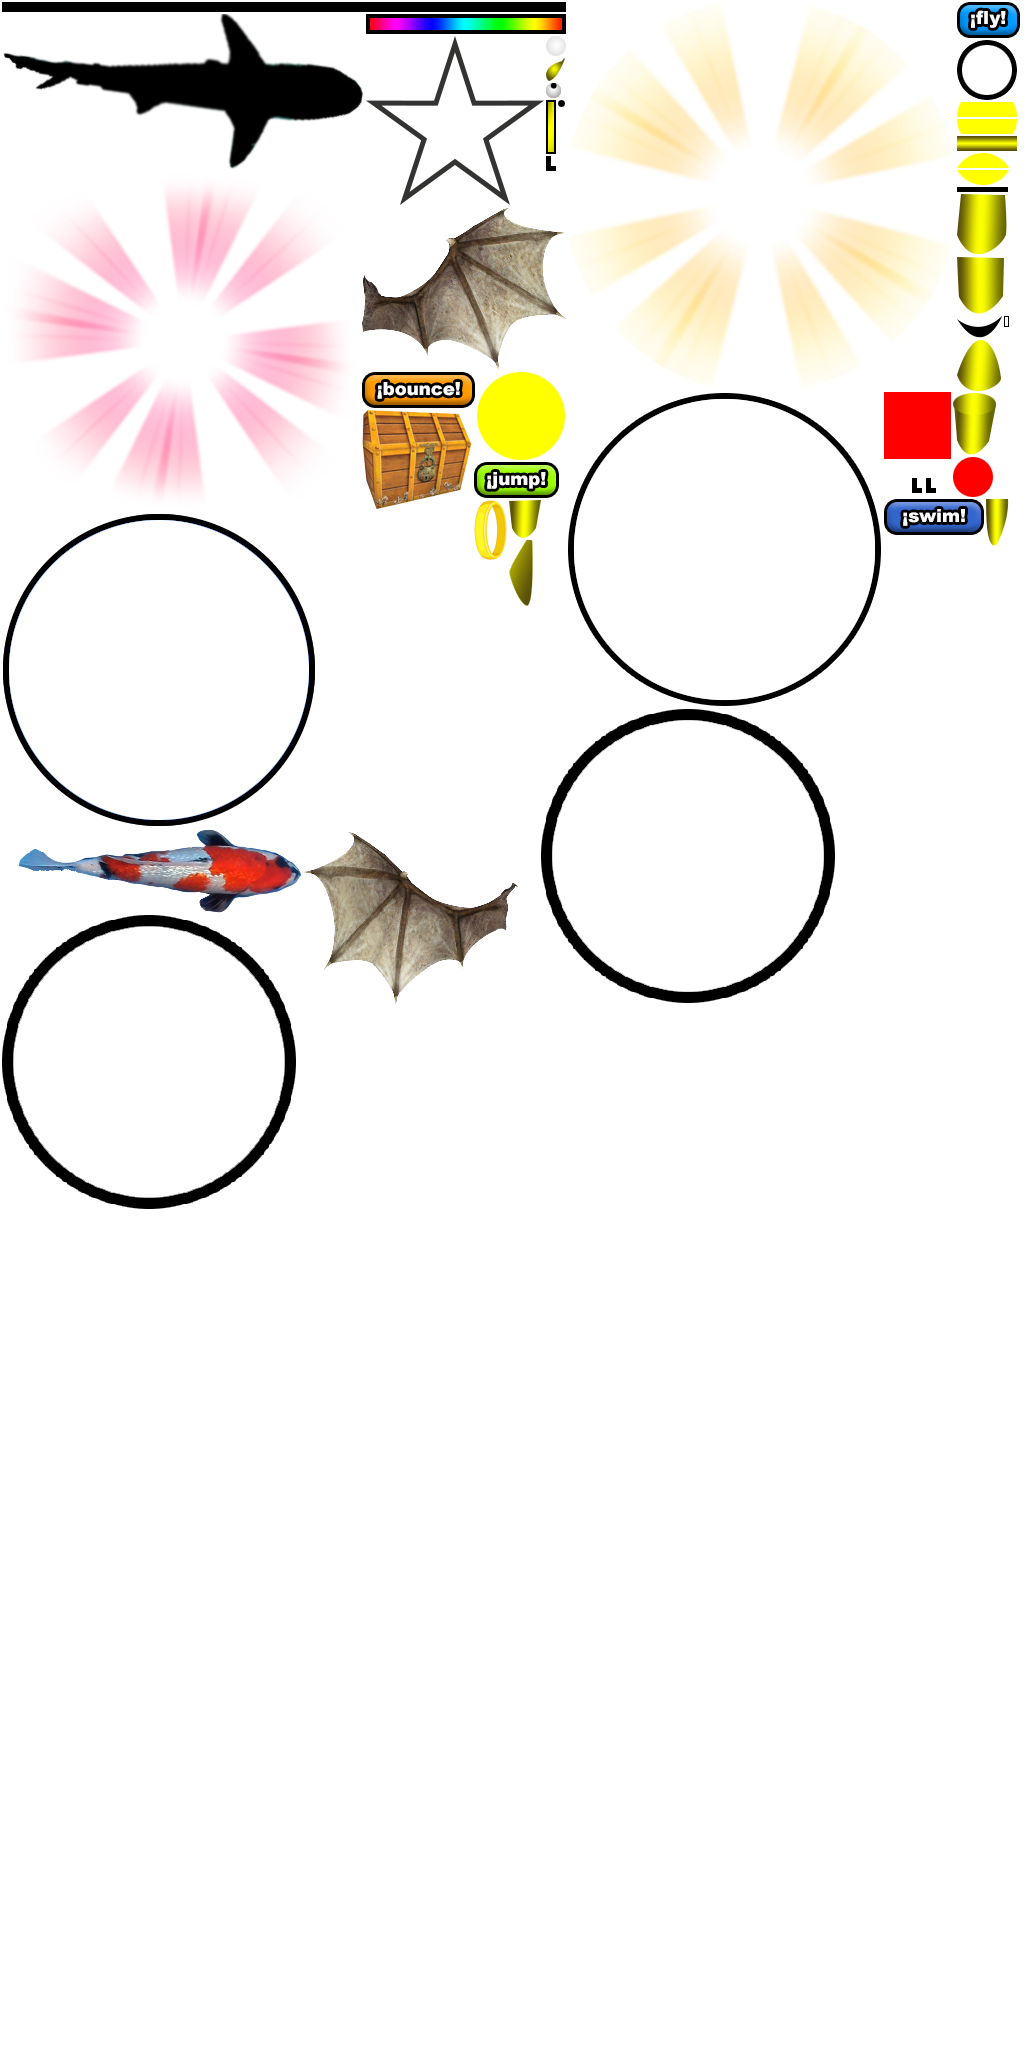
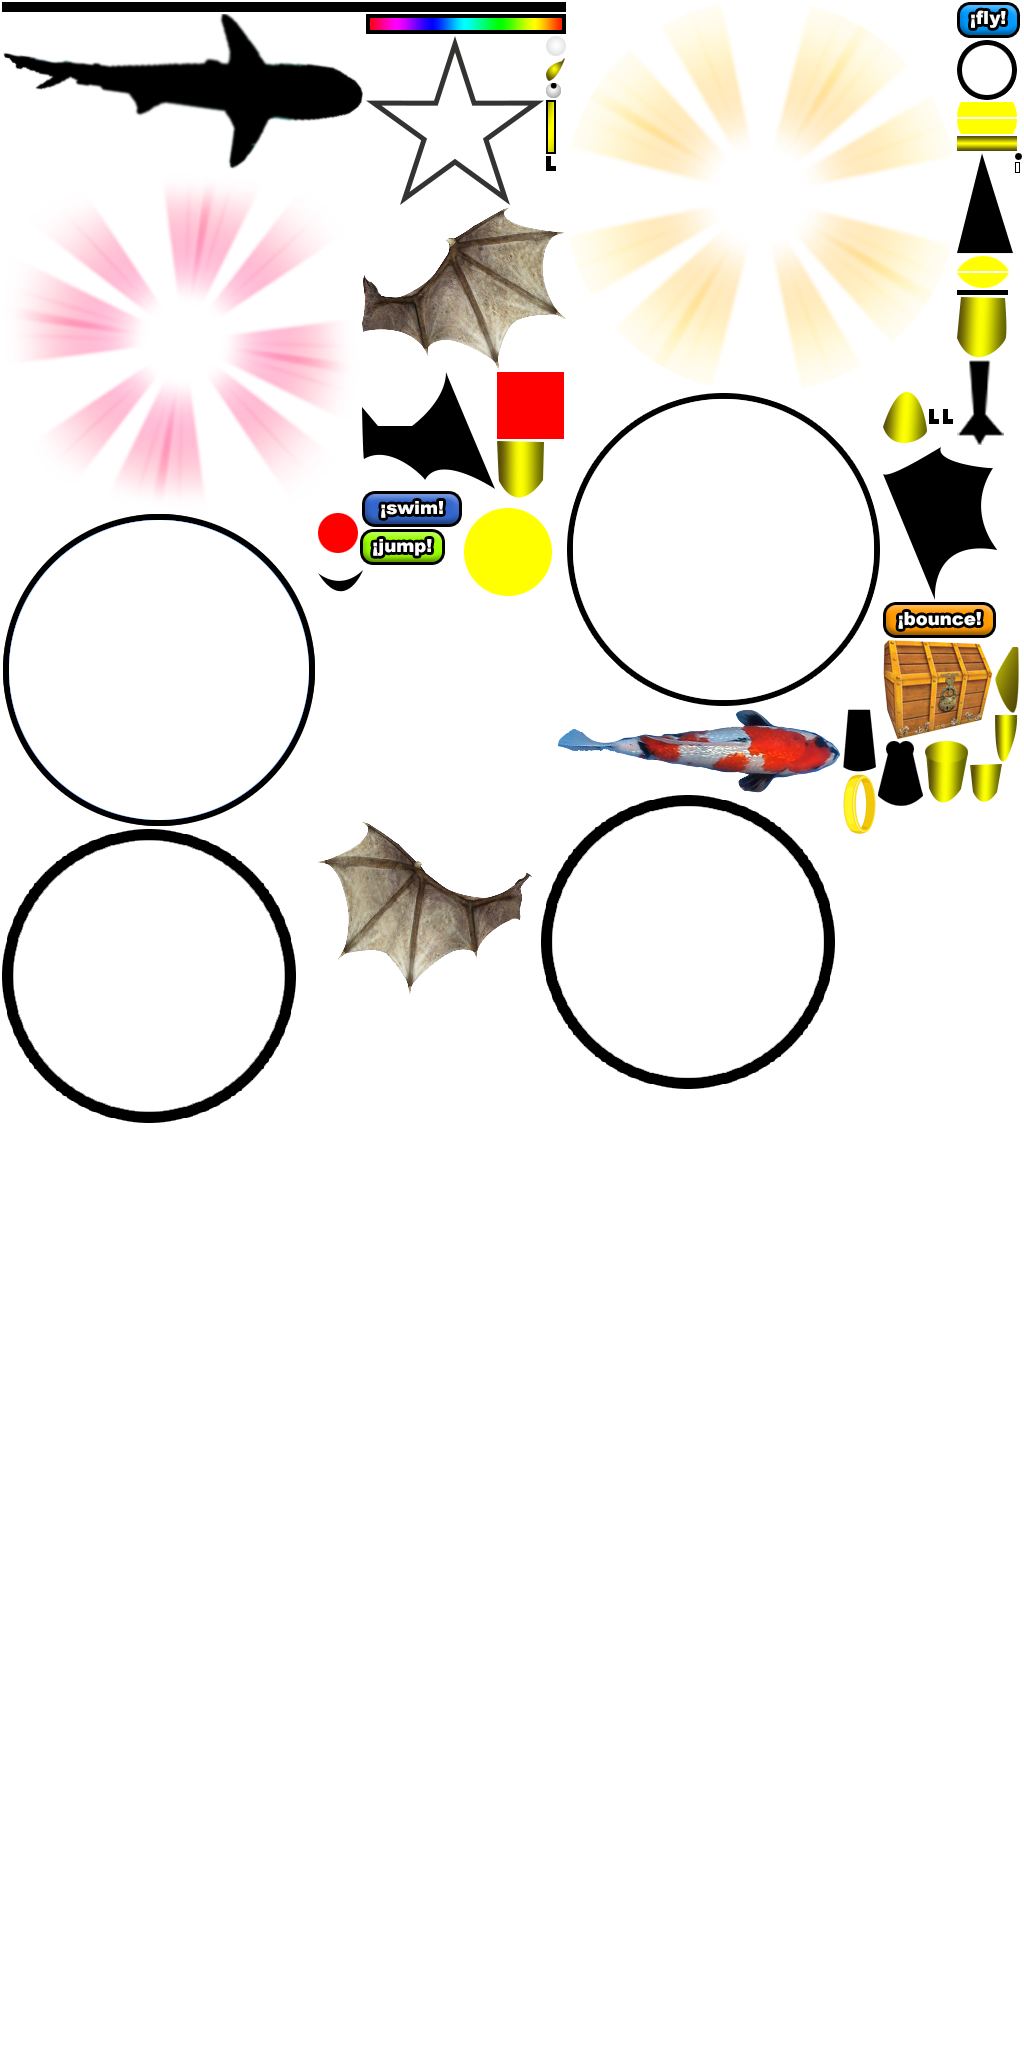
dragon

Changed region(s): [[0.0, 0.0625, 1.0, 0.5938], [0.3125, 0.1562, 0.5938, 0.3125]]

diff --git a/src/animations/supportingClasses/fly/heroFly.js b/src/animations/supportingClasses/fly/heroFly.js
@@ -5,32 +5,92 @@ export default function () {
 		cont: new PIXI.Container(),
 		dragon: [],
 		utils: Utils,
-		segmentsQ: 20,
+		segmentsQ: 10,
 		init: function (parentCont, wh, spritesheet) {
 			this.parentCont = parentCont;
-			if(!this.dragon.length){
-				 for (let i = 0; i < this.segmentsQ; i++) {
-	                let segment = this.bodySegment(25, 0xFFFF00, i * 25);
-	                this.dragon.push(segment);
-	                this.cont.addChild(segment);
-	            }
-			} else {
-				 for (let i = 0; i < this.segmentsQ; i++) {
-	                this.cont.addChild(this.dragon[i]);
-	            }
-			}
+			let head = new PIXI.Sprite(spritesheet.textures['dragonHead.png']);
+			head.anchor.x = 0.5;
+	        head.anchor.y = 0.5;
+			this.cont.addChild(head);
+			this.dragon.push(head);
 
-			if(!this.leftWing){
-				 this.leftWing = new PIXI.Sprite(spritesheet.textures['leftWing.png']);
-				 this.rightWing = new PIXI.Sprite(spritesheet.textures['rightWing.png']);
-				 this.leftWing.pivot.x = 206;
-				 this.leftWing.pivot.y = 54;
-				 this.rightWing.pivot.y = 70;
-				 this.wingCont = new PIXI.Container();
-				 this.wingCont.y = 20;
-				 this.wingCont.addChild(this.leftWing);
-				 this.wingCont.addChild(this.rightWing);
-			}
+			 for (let i = 0; i < this.segmentsQ; i++) {
+			 	let cont = new PIXI.Container();
+			 	cont.vx = 0;
+	            cont.vy = 0;
+	            cont.xpos = 0;
+	            cont.ypos = 0;
+                let segment =  new PIXI.Sprite(spritesheet.textures['dragonSegment.png']);
+                segment.anchor.x = 0.5;
+                segment.anchor.y =  0;
+                segment.y = i * (segment.height - 20);
+                cont.addChild(segment);
+                this.dragon.push(cont);
+                this.cont.addChild(cont);
+            }
+		
+            this.rightWing = new PIXI.Container();
+            this.rightWing1 = new PIXI.Sprite(spritesheet.textures['wingPart1.png']);
+			this.rightWing1.anchor.x = 0;
+			this.rightWing1.anchor.y = 0.33;
+
+			this.rightWing2 = new PIXI.Sprite(spritesheet.textures['wingPart2.png']);
+			this.rightWing2.x = 84;
+			this.rightWing2.y = -40;
+			this.rightWing2.anchor.x = 0;
+			this.rightWing2.pivot.y = 20;
+
+			this.rightWing3 = new PIXI.Sprite(spritesheet.textures['dragonTriangle.png']);
+			this.rightWing3.anchor.x = 0.5;
+			this.rightWing3.anchor.y = 0;
+			this.rightWing3.x = 84;
+			this.rightWing3.rotation = this.utils.deg2rad(-30);
+			this.rightWing3.y = -40;
+
+			this.rightWing.addChild(this.rightWing1);
+			this.rightWing.addChild(this.rightWing2);
+			this.rightWing.addChild(this.rightWing3);
+			
+			this.leftWing = new PIXI.Container();
+			this.leftWing1 = new PIXI.Sprite(spritesheet.textures['wingPart1.png']);
+			this.leftWing1.scale.x = -1;
+			this.leftWing1.anchor.x = 0;
+			this.leftWing1.anchor.y = 0.33;
+
+			this.leftWing2 = new PIXI.Sprite(spritesheet.textures['wingPart2.png']);
+			this.leftWing2.scale.x = -1;
+			this.leftWing2.x = -84;
+			this.leftWing2.y = -40;
+			this.leftWing2.anchor.x = 0;
+			this.leftWing2.pivot.y = 20;
+
+			this.leftWing3 = new PIXI.Sprite(spritesheet.textures['dragonTriangle.png']);
+			this.leftWing3.anchor.x = 0.5;
+			this.leftWing3.anchor.y = 0;
+			this.leftWing3.x = -84;
+			this.leftWing3.rotation = this.utils.deg2rad(30);
+			this.leftWing3.y = -40;
+
+			this.leftWing.addChild(this.leftWing1);
+			this.leftWing.addChild(this.leftWing2);
+			this.leftWing.addChild(this.leftWing3);
+
+			 this.wingCont = new PIXI.Container();
+			 this.wingCont.y = 30;
+			 this.wingCont.addChild(this.leftWing);
+			 this.wingCont.addChild(this.rightWing);
+			
+			this.eyeCont = new PIXI.Container();
+			let rightEye = this.rightEye = new PIXI.Sprite(spritesheet.textures['swimEye.png']);
+            rightEye.anchor.set(0.5);
+            this.rightEye.x = 10;
+            this.eyeCont.addChild(rightEye)
+            let leftEye = this.leftEye = new PIXI.Sprite(spritesheet.textures['swimEye.png']);
+            this.leftEye.x = -10;
+            leftEye.anchor.set(0.5);
+            this.eyeCont.addChild(leftEye);
+            this.cont.addChild(this.eyeCont)
+
 			this.cont.radius = 0;
 			this.cont.addChildAt(this.wingCont, 0);
 			this.segments = this.dragon;

diff --git a/src/animations/intro_animation.js b/src/animations/intro_animation.js
@@ -297,31 +297,31 @@ export default function(obj) {
 
 			if (str === 'right') {
 				this.idle = false;
-				this.swimAction.radius += 0.25;
+				this.activeAction.radius += 0.25;
 				this.velocity = this.utils.randomNumberBetween(
 					this.config.swimVelocities[0], 
 					this.config.swimVelocities[1]);
-				this.vx = this.velocity * Math.sin(this.swimAction.radius);
-				this.vy = -this.velocity * Math.cos(this.swimAction.radius);
-				this.swimAction.storeRadius = this.swimAction.radius;
+				this.vx = this.velocity * Math.sin(this.activeAction.radius);
+				this.vy = -this.velocity * Math.cos(this.activeAction.radius);
+				this.activeAction.storeRadius = this.activeAction.radius;
 				let obj = {vx: -this.vx, vy: -this.vy};
 				this.pellets.rotate(obj);
 				//this.transitionItems.rotate(obj);
-				this.swimAction.rotate(obj);
+				this.activeAction.rotate(obj);
 			
 			} else if (str === 'left') {
 				this.idle = false;
-				this.swimAction.radius -= 0.25;
+				this.activeAction.radius -= 0.25;
 				this.velocity = this.utils.randomNumberBetween(
 					this.config.swimVelocities[0], 
 					this.config.swimVelocities[1]);
-				this.vx = this.velocity * Math.sin(this.swimAction.radius);
-				this.vy = -this.velocity * Math.cos(this.swimAction.radius);
-				this.swimAction.storeRadius = this.swimAction.radius;
+				this.vx = this.velocity * Math.sin(this.activeAction.radius);
+				this.vy = -this.velocity * Math.cos(this.activeAction.radius);
+				this.activeAction.storeRadius = this.activeAction.radius;
 				let obj = {vx: -this.vx, vy: -this.vy};
 				this.pellets.rotate(obj);
 				//this.transitionItems.rotate(obj);
-				this.swimAction.rotate(obj);
+				this.activeAction.rotate(obj);
 			}
 		},
 		keyDown: function (e) {

diff --git a/src/animations/supportingClasses/actions/flyAction.js b/src/animations/supportingClasses/actions/flyAction.js
@@ -42,7 +42,7 @@ export default function () {
 			if(!this.spinning){
 				this.radius = this.utils.cosWave(this.storeRadius, 0.15, 0.01);
 			}
-				
+			this.hero.activeHero.eyeCont.rotation = this.radius;
 			this.hero.activeHero.segments[0].rotation = this.radius;
 	        this.hero.pos.push(this.radius);
 
@@ -59,7 +59,10 @@ export default function () {
 
         	this.hero.activeHero.wingCont.rotation = this.storeRadius;
         	this.hero.activeHero.leftWing.rotation = this.utils.deg2rad(this.utils.cosWave(0, 20, 0.004));
+        	this.hero.activeHero.leftWing2.rotation = this.utils.deg2rad(this.utils.cosWave(0, 20, 0.004));
+
         	this.hero.activeHero.rightWing.rotation = this.utils.deg2rad(this.utils.cosWave(0, -20, 0.004));
+        	this.hero.activeHero.rightWing2.rotation = this.utils.deg2rad(this.utils.cosWave(0, -20, 0.004));
 	        
 
 		}

diff --git a/src/animations/supportingClasses/fly/flyBackground.js b/src/animations/supportingClasses/fly/flyBackground.js
@@ -18,7 +18,7 @@ export default function () {
 
 	
 
-			this.background.beginFill(0x000000).drawRect(0,0,wh.canvasWidth, wh.canvasHeight).endFill();
+			this.background.beginFill(0x333333).drawRect(0,0,wh.canvasWidth, wh.canvasHeight).endFill();
 
 			this.cont.addChild(this.background);
 			//this.parentCont.addChild(this.orbsCont)
